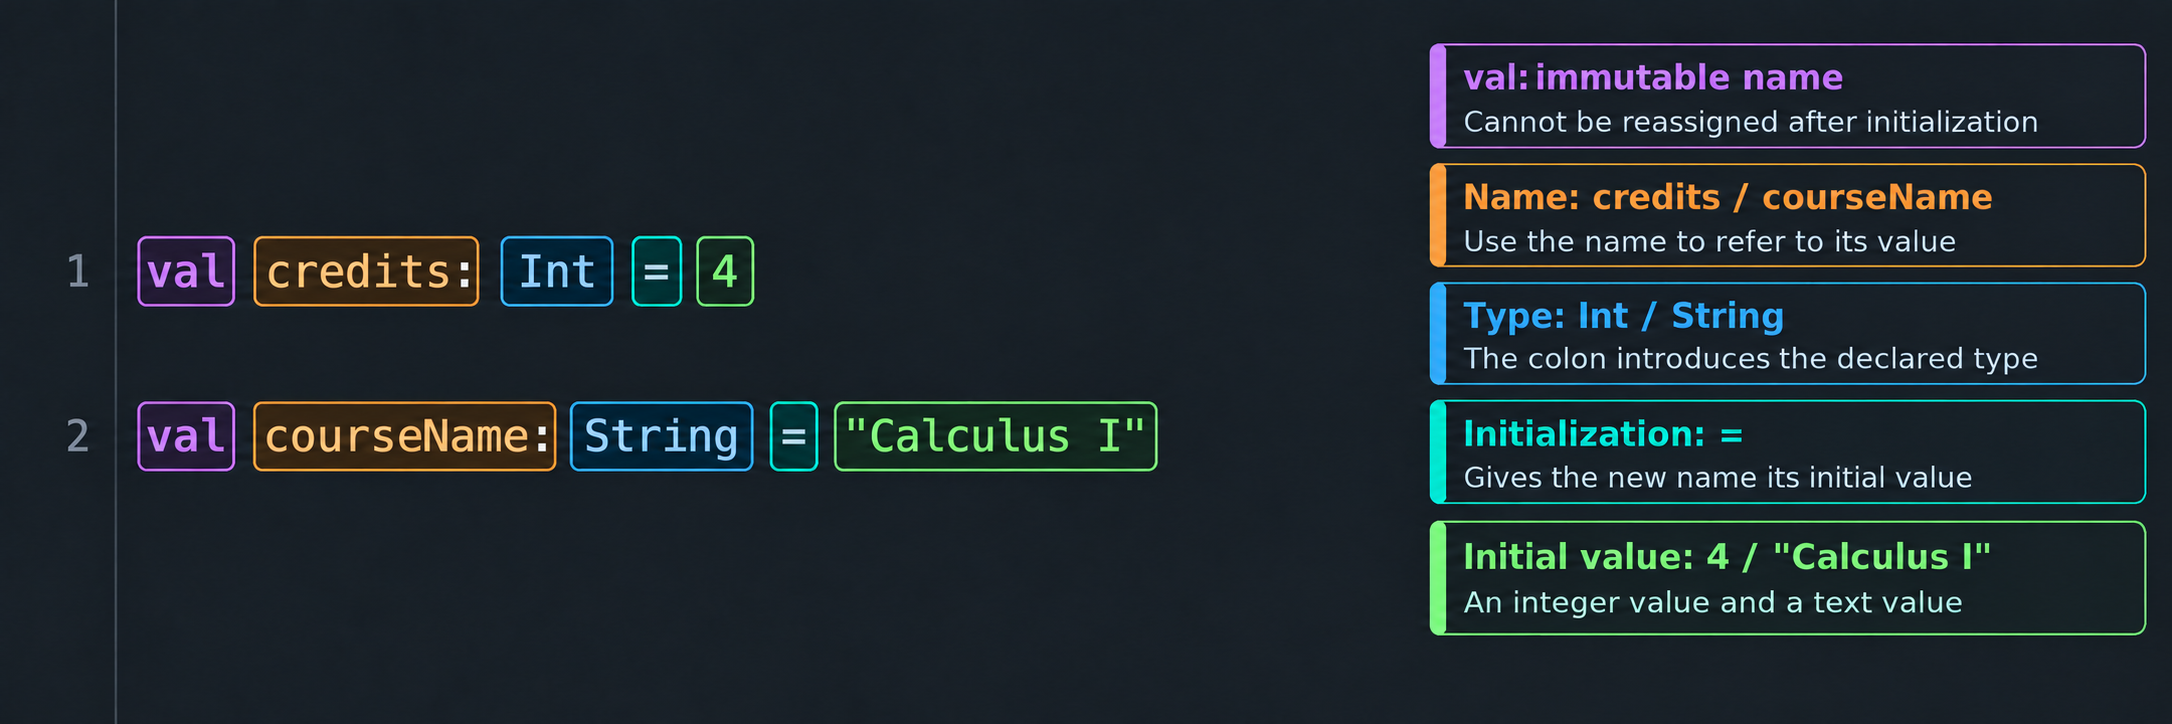
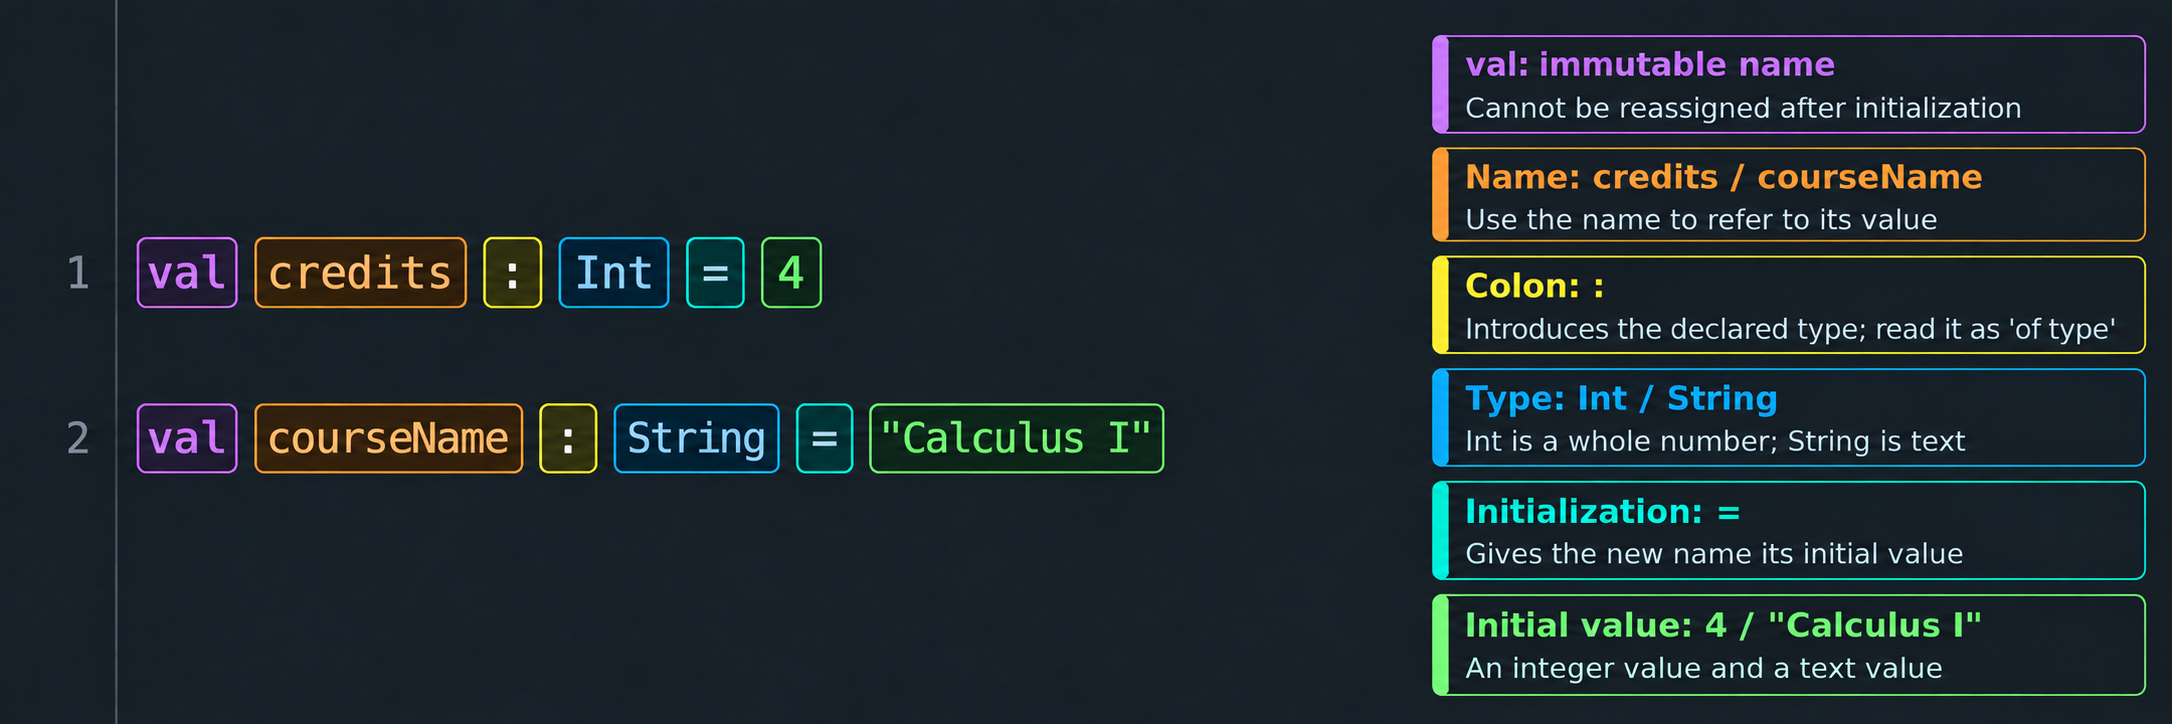
Improved val diagram

diff --git a/lecture-01-immutable-val.html b/lecture-01-immutable-val.html
@@ -32,7 +32,7 @@
         <h2>Name a Result</h2>
         <p>Programs become easier to read when important values have names. In Kotlin, <code>val</code> creates a name and <span class="term" data-term="initialize">initializes</span> it with a value.</p>
         <figure class="screenshot-card">
-          <img src="assets/ValDeclarationsDiagram.png" alt="The declarations val credits: Int = 4 and val courseName: String = &quot;Calculus I&quot;, with color-matched explanations of val, the name, the declared type, initialization with equals, and the initial value. Each declaration has one colon between its name and type. A val cannot be reassigned after initialization.">
+          <img src="assets/ValDeclarationsDiagram.png" alt="The declarations val credits: Int = 4 and val courseName: String = &quot;Calculus I&quot;, with color-matched explanations of val, the name, the colon, the declared type, initialization with equals, and the initial value. The colon introduces the declared type and can be read as of type. Each declaration has one colon between its name and type. A val cannot be reassigned after initialization.">
           <figcaption>A <code>val</code> declaration gives a name to an initial value. A single colon introduces the type, and <code>=</code> initializes the name.</figcaption>
         </figure>
         <figure class="kotlin-example" aria-label="Explicitly typed names you can change and run">
